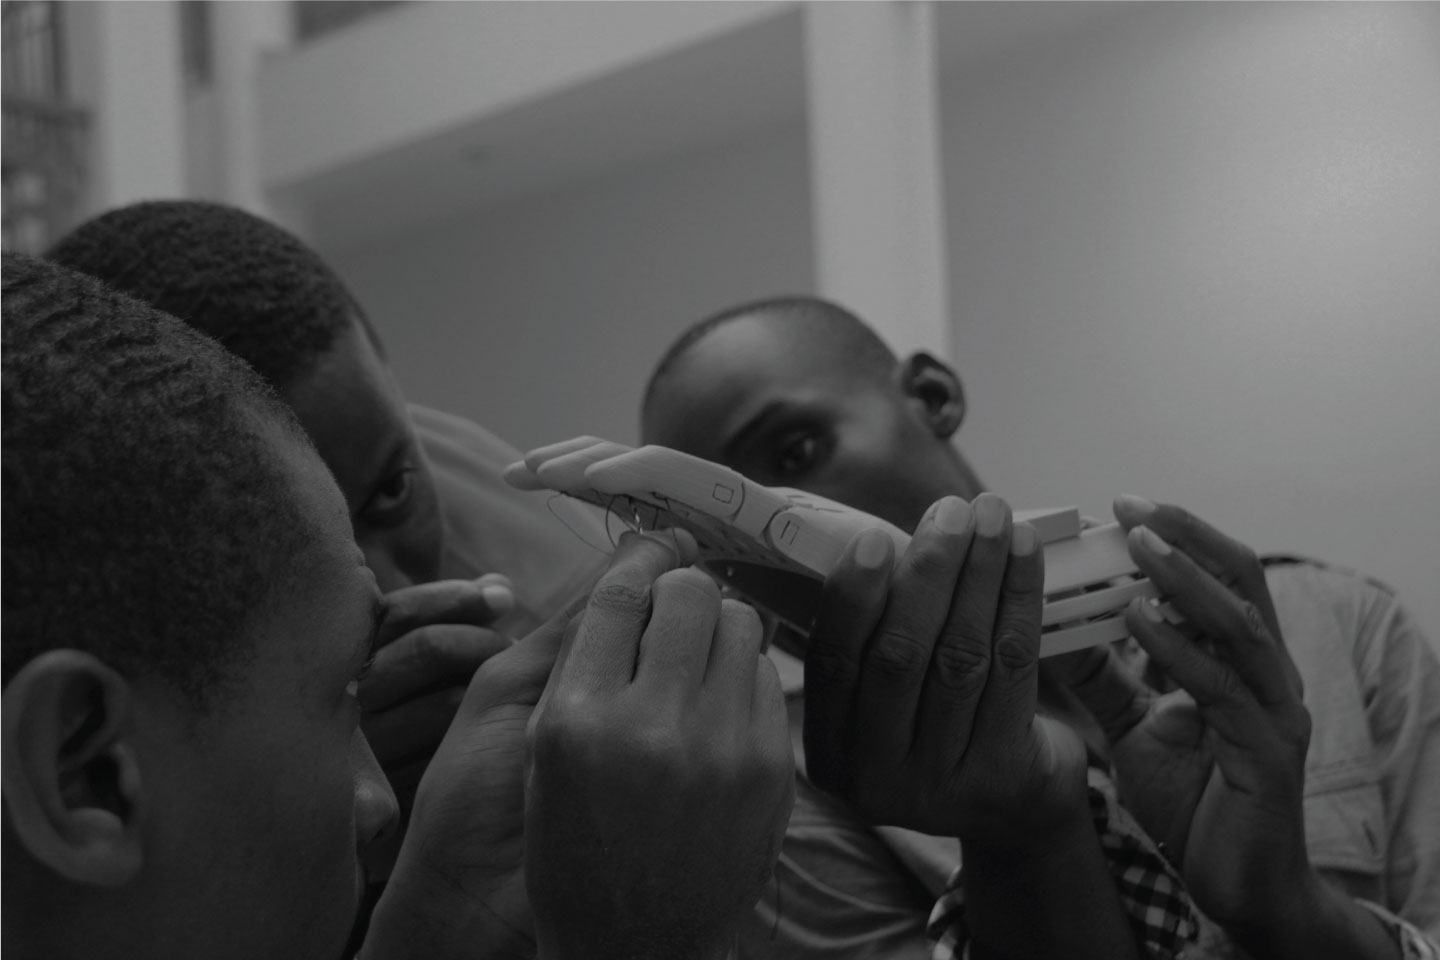
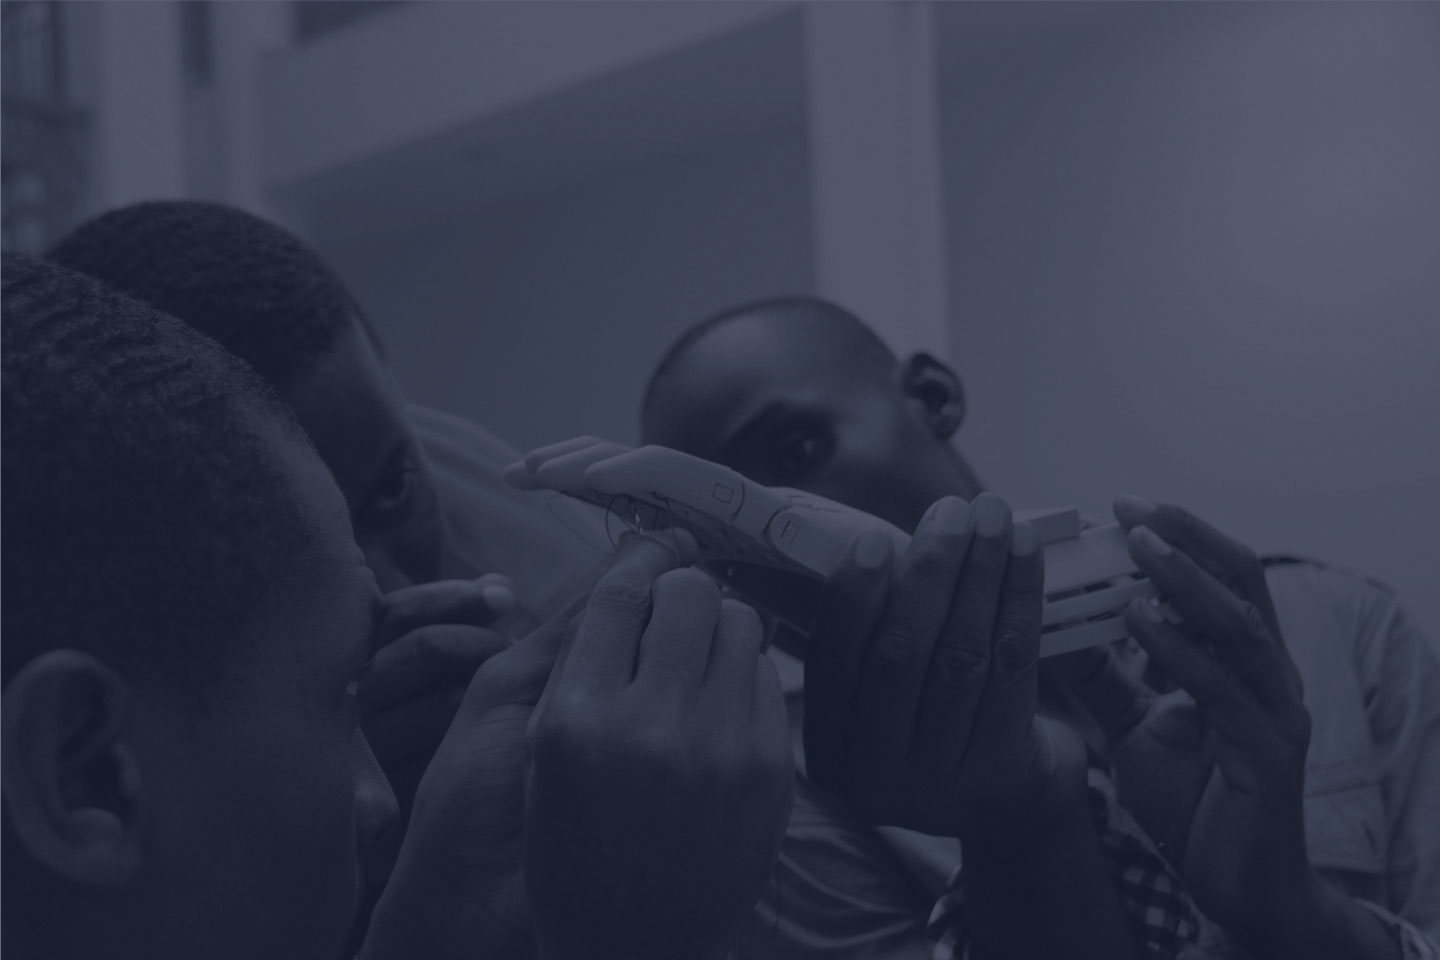
new homepage colors

diff --git a/app/assets/stylesheets/styleguide.scss b/app/assets/stylesheets/styleguide.scss
@@ -85,7 +85,7 @@ button{
 
 //FOOTER
 footer{
-  background-color: $regular-gray;
+  background-color: $moonbeam-dark;
   padding: $standard-padding*2 0;
   ul{
     display: block;
@@ -97,7 +97,7 @@ footer{
     }
   }
   .circle{
-    background-color: $camero-regular;
+    background-color: $ocean-regular;
     width: 50px;
     height: 50px;
     border-radius: 100%;
@@ -106,7 +106,7 @@ footer{
 }
 #lower-footer{
   color: $light-gray;
-  background-color: $dark-gray;
+  background-color: $moonbeam-darker;
   text-align: center;
   padding: $standard-padding;
   p{

diff --git a/app/assets/stylesheets/styleguide-variables.scss b/app/assets/stylesheets/styleguide-variables.scss
@@ -1,5 +1,6 @@
 //COLORS:
 //style guide colors
+$moonbeam-darker: #0b1830;
 $moonbeam-dark:   #0e2045;
 $moonbeam-regular:#224269;
 $moonbeam-light:  #a0abc2;
